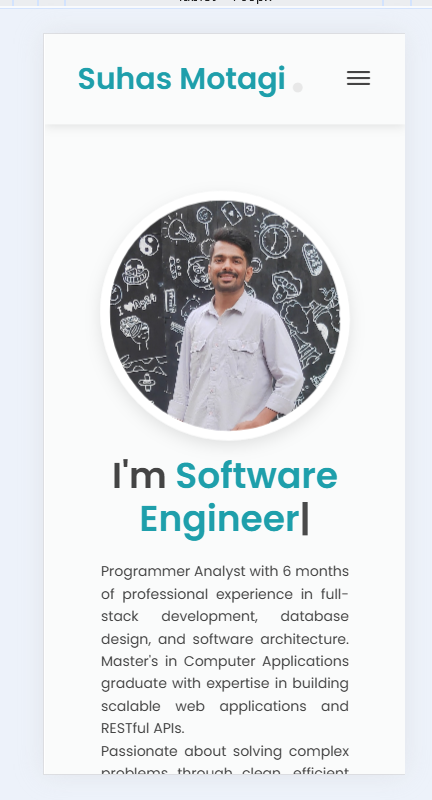
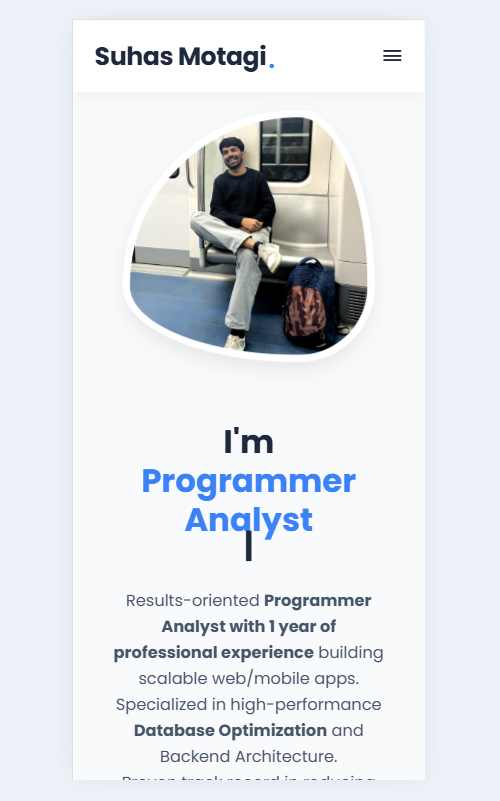
updated readme.md

Changed region(s): [[0.1806, 0.0312, 0.8125, 0.9688], [0.7523, 0.0625, 0.8125, 0.0938], [0.8125, 0.0938, 0.8426, 0.125]]

diff --git a/README.md b/README.md
@@ -1,34 +1,64 @@
-# 💼 Suhas Motagi Portfolio
+📱 Portfolio Preview
+🖥 Desktop View
+https://assets/images/desktop_view.png
+Professional landing page with clear navigation and highlighted expertise
 
-This is my personal portfolio website built with HTML, CSS, and JavaScript. It showcases my projects, skills, experience, and contact details.
+📱 Mobile View
+https://assets/images/Mobile_view.png
+Fully responsive design optimized for mobile devices
 
-## 🔧 Features
+📞 Contact Page
+https://assets/images/contact_page.png
+Interactive contact form with professional contact information
 
-- Responsive Design
-- Smooth Scrolling
-- Projects Section
-- Contact Form
-- Social Links
+🛠 Technical Skills
+Frontend Development
+Angular 16+ • React 18+ • TypeScript • RxJS • HTML5/CSS3
 
-## 📸 Screenshots
+Responsive Design • PWA • State Management
 
-### 🖥 Home Page
-![Home Screenshot](assets/images/Web_view.png)
+Backend Development
+Node.js • Express.js • NestJS • REST APIs • GraphQL
 
-### 📱 Mobile View
-![Mobile Screenshot](assets/images/Mobile_view.png)
+Microservices Architecture • API Design
 
-> Screenshots are inside the `assets/` folder.
-> Feel free to explore the live demo (if deployed).
+Database & Optimization
+PostgreSQL • MongoDB • Redis • Query Optimization
 
-## 🧑💻 Developed By
+Database Indexing • Performance Tuning
 
-**Suhas Motagi**
+Tools & DevOps
+Git • Docker • AWS • CI/CD • Jest • Postman
 
----
+Agile/Scrum • JIRA • Confluence
 
-### 🌐 Connect with Me
+🏆 Experience Highlights
+Programmer Analyst | 1+ Year Experience
+Built scalable web and mobile applications from scratch
 
-- [LinkedIn](https://linkedin.com/in/suhasmotagi)
-- [GitHub](https://github.com/SuhasMotagi)
+Specialized in Database Optimization achieving 40% latency reduction
 
+Developed high-performance backend systems
+
+Implemented responsive frontend interfaces
+
+Key Projects
+E-commerce Platform: Handled 10K+ concurrent users with optimized DB queries
+
+Real-time Analytics Dashboard: Reduced data processing time by 50%
+
+Mobile Banking App: Implemented secure authentication and transaction systems
+
+📬 Get In Touch
+I'm always open to discussing new opportunities, collaborations, or tech discussions!
+
+Contact Information
+📧 Email: motagisuhas@gmail.com
+
+📱 Phone: +91 8550033763
+
+🏠 Location: Karnataka, India
+
+💼 LinkedIn: linkedin.com/in/suhasmotagi
+
+💻 GitHub: github.com/SuhasMotagi
